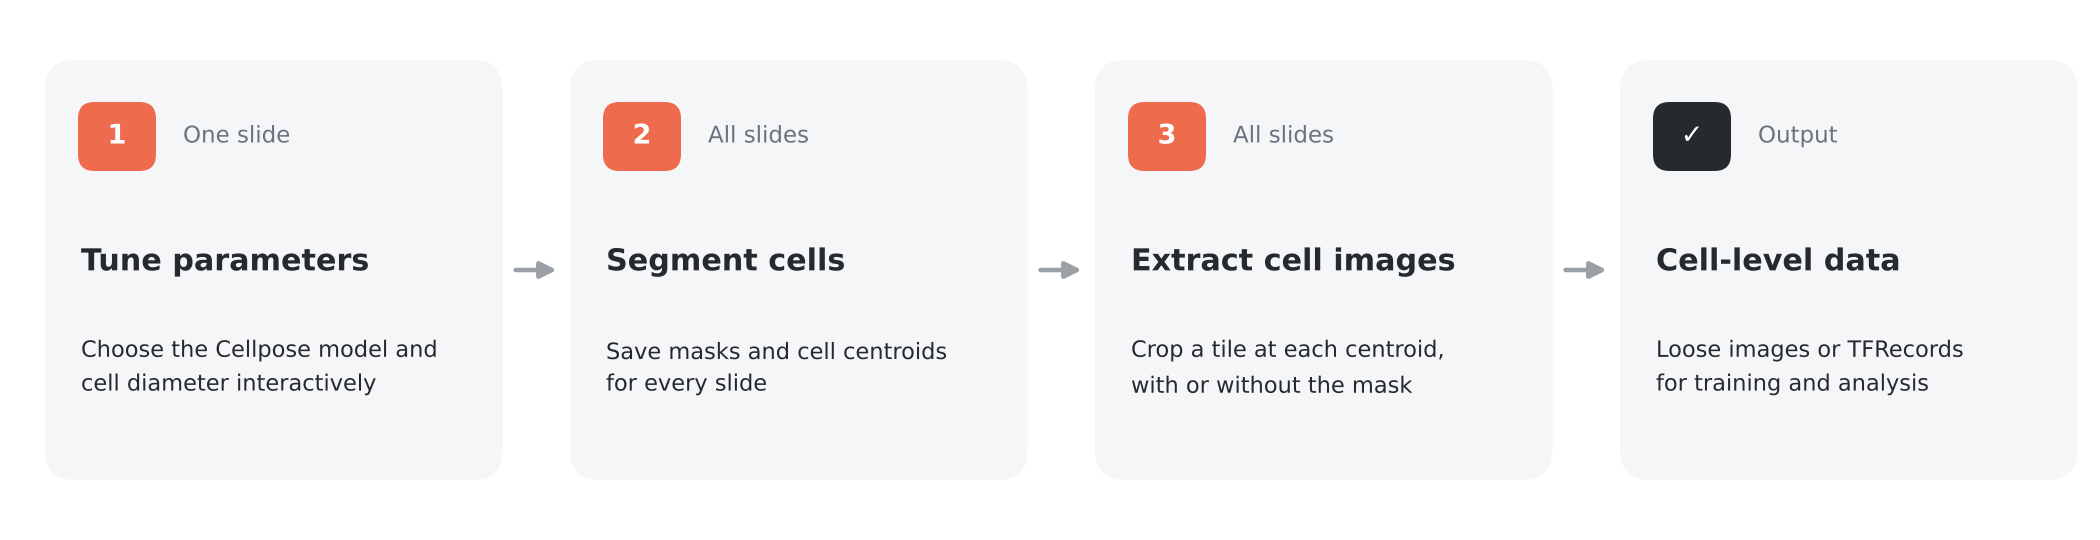
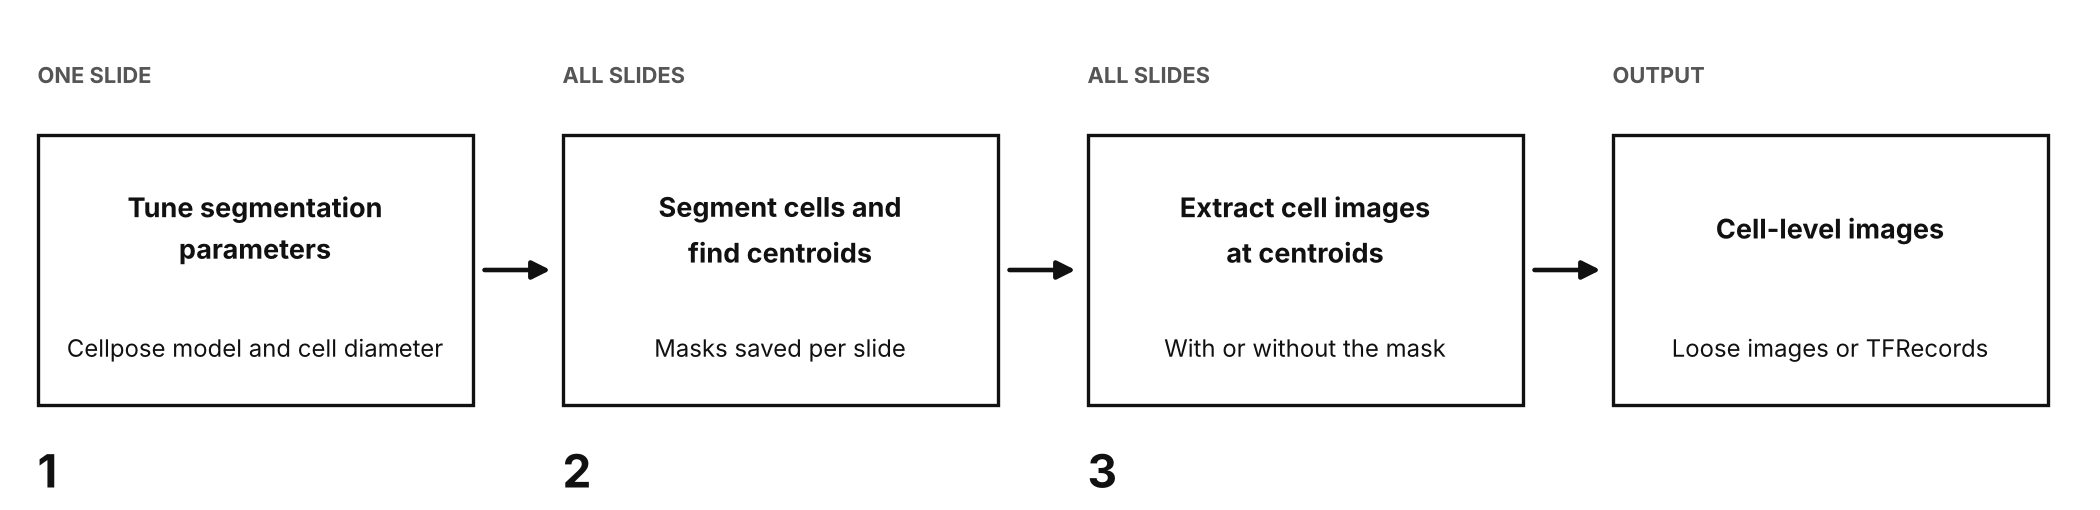
docs: restyle diagrams as plain line art
Redraw the overview, validation and cell-segmentation diagrams with a white
background, black strokes and arrows, and large phase numbers, and use real
HistoX outputs (attention heatmap, mosaic map, UMAP) in the overview.

diff --git a/docs/figures/make_overview.py b/docs/figures/make_overview.py
@@ -1,8 +1,8 @@
 """Draw the HistoX workflow overview figure (docs/source/overview.png).
 
-All images are HistoX outputs generated from the open-access TCGA slides
-documented in docs/source/_static/slide_processing/generation_metadata.json
-and docs/source/methods/multimodal/ps3.rst.
+Line-art schematic in three phases. All embedded images are HistoX outputs
+generated from open-access TCGA slides (see the generation metadata next to
+each source image in docs/source).
 
 Run from the repository root:  python docs/figures/make_overview.py
 """
@@ -12,103 +12,139 @@ import numpy as np
 import matplotlib
 matplotlib.use('Agg')
 import matplotlib.pyplot as plt
-from matplotlib.patches import FancyBboxPatch, FancyArrowPatch, Rectangle
+from matplotlib import font_manager
+from matplotlib.patches import FancyArrowPatch, Rectangle, Circle, FancyBboxPatch
 from PIL import Image
 
 ROOT = Path(sys.argv[1]) if len(sys.argv) > 1 else Path('.')
 SRC = ROOT / 'docs/source'
 OUT = SRC / 'overview.png'
 
-INK, MUTED, ORANGE, PANEL, LINE = '#262a2e', '#6b7280', '#ee6c4d', '#f5f6f8', '#d6d9de'
-plt.rcParams.update({'font.family': 'DejaVu Sans', 'font.size': 11})
+FONT = 'Inter' if any('Inter' in f.name for f in font_manager.fontManager.ttflist) else 'DejaVu Sans'
+plt.rcParams.update({'font.family': FONT})
+INK, GREY = '#111111', '#9a9a9a'
 
-thumb = Image.open(SRC / '_static/slide_processing/tutorial_roi_tiles.png').convert('RGB')
+roi = Image.open(SRC / '_static/slide_processing/tutorial_roi_tiles.png').convert('RGB').crop((20, 150, 600, 610))
 plain = np.asarray(Image.open(SRC / '_static/slide_processing/tutorial_thumbnail.png').convert('RGB'))
-att = Image.open(SRC / '_static/examples/ps3_spatial_attention_tcga_a6_5660.png').convert('RGB')
-att = att.crop((55, 40, 385, 525))
+att = Image.open(SRC / '_static/examples/ps3_spatial_attention_tcga_a6_5660.png').convert('RGB').crop((55, 40, 385, 525))
+mosaic = Image.open(SRC / 'mosaic_example.png').convert('RGB')
+mosaic = mosaic.crop((60, 640, 1176, 1150))
+umap = Image.open(SRC / 'umap_example.png').convert('RGB').crop((105, 40, 800, 880))   # points only, no legend
 
-fig = plt.figure(figsize=(16, 6.4), dpi=150)
-ax = fig.add_axes([0, 0, 1, 1]); ax.set_xlim(0, 160); ax.set_ylim(0, 64); ax.axis('off')
+fig = plt.figure(figsize=(16, 7.2), dpi=150)
+ax = fig.add_axes([0, 0, 1, 1]); ax.set_xlim(0, 160); ax.set_ylim(0, 72); ax.axis('off')
 
-def panel(x, w, num, title):
-    ax.add_patch(FancyBboxPatch((x, 3), w, 56, boxstyle='round,pad=0,rounding_size=2.2', fc=PANEL, ec='none'))
-    ax.add_patch(FancyBboxPatch((x + 2.5, 52.2), 6.2, 4.6, boxstyle='round,pad=0,rounding_size=1.2', fc=ORANGE, ec='none'))
-    ax.text(x + 5.6, 54.5, str(num), ha='center', va='center', color='white', fontsize=15, weight='bold')
-    ax.text(x + 10.5, 54.5, title, ha='left', va='center', color=INK, fontsize=16, weight='bold')
 
-def image(img, x, y, w, h, border=True):
-    ax.imshow(img, extent=(x, x + w, y, y + h), aspect='auto', zorder=3)
-    if border:
-        ax.add_patch(Rectangle((x, y), w, h, fill=False, ec=LINE, lw=1, zorder=4))
+def img(im, x, y, w, h, frame=True, lw=1.2):
+    ax.imshow(im, extent=(x, x + w, y, y + h), aspect='auto', zorder=2)
+    if frame:
+        ax.add_patch(Rectangle((x, y), w, h, fill=False, ec=INK, lw=lw, zorder=3))
 
-def arrow(x0, y0, x1, y1, color=INK, lw=1.8):
-    ax.add_patch(FancyArrowPatch((x0, y0), (x1, y1), arrowstyle='-|>', mutation_scale=16, color=color, lw=lw, zorder=5))
 
-def label(x, y, text, **kw):
-    kw.setdefault('color', INK); kw.setdefault('fontsize', 11.5)
-    ax.text(x, y, text, **kw)
+def arrow(x0, y0, x1, y1, color=INK, lw=2.2, ms=18):
+    ax.add_patch(FancyArrowPatch((x0, y0), (x1, y1), arrowstyle='-|>', mutation_scale=ms,
+                                 color=color, lw=lw, zorder=4, shrinkA=0, shrinkB=0))
 
-def tile_crops(n, size=46, seed=0):
-    """Square crops from tissue-rich regions of the TCGA thumbnail."""
-    rng = np.random.default_rng(seed); out = []
-    h, w, _ = plain.shape
-    while len(out) < n:
-        y, x = rng.integers(0, h - size), rng.integers(0, w - size)
-        c = plain[y:y + size, x:x + size]
+
+def text(x, y, s, size=13, weight='normal', **kw):
+    ax.text(x, y, s, fontsize=size, weight=weight, color=INK, **kw)
+
+
+def bag(cx, cy, w=7.0, h=7.6, rows=6):
+    """Feature-bag icon: a matrix whose rows are tile embeddings."""
+    x0, y0 = cx - w / 2, cy - h / 2
+    rng = np.random.default_rng(int(cx * 10 + cy))
+    rh = h / rows
+    for r in range(rows):
+        for c in range(5):
+            shade = 0.25 + 0.65 * rng.random()
+            ax.add_patch(Rectangle((x0 + c * w / 5, y0 + r * rh), w / 5, rh,
+                                   fc=str(shade), ec='white', lw=0.8, zorder=2))
+    ax.add_patch(Rectangle((x0, y0), w, h, fill=False, ec=INK, lw=1.4, zorder=3))
+
+
+def model(cx, cy, r=6.2):
+    """Model icon: a small fully connected network inside a circle."""
+    ax.add_patch(Circle((cx, cy), r, fill=False, ec=INK, lw=2.2, zorder=3))
+    layers = [[-2.2, 0, 2.2], [-3.0, -1.0, 1.0, 3.0], [-1.1, 1.1]]
+    xs = [cx - 3.6, cx, cx + 3.6]
+    pts = [[(x, cy + dy) for dy in ys] for x, ys in zip(xs, layers)]
+    for a, b in zip(pts[:-1], pts[1:]):
+        for p in a:
+            for q in b:
+                ax.plot([p[0], q[0]], [p[1], q[1]], color=INK, lw=0.6, zorder=3)
+    for layer in pts:
+        for (x, y) in layer:
+            ax.add_patch(Circle((x, y), 0.65, fc='white', ec=INK, lw=1.3, zorder=4))
+
+
+def roc(x, y, s=10):
+    ax.add_patch(Rectangle((x, y), s, s, fc='white', ec=INK, lw=1.4, zorder=2))
+    f = np.linspace(0, 1, 60)
+    ax.fill_between(x + s * f, y + s * f, y + s * (1 - (1 - f) ** 3.5), color='#e6e6e6', zorder=2)
+    ax.plot(x + s * f, y + s * (1 - (1 - f) ** 3.5), color=INK, lw=1.8, zorder=3)
+    ax.plot([x, x + s], [y, y + s], color=GREY, lw=1, ls=(0, (2, 2)), zorder=3)
+    text(x + s - 0.6, y + 0.8, 'ROC', size=10, ha='right')
+
+
+def tiles(x, y, cols, rows, size=4.2, gap=0.7, seed=3):
+    rng = np.random.default_rng(seed); h, w, _ = plain.shape; k = 48; n = 0
+    while n < cols * rows:
+        yy, xx = rng.integers(0, h - k), rng.integers(0, w - k)
+        c = plain[yy:yy + k, xx:xx + k]
         if (c.mean(axis=2) < 200).mean() > 0.85:
-            out.append(c)
-    return out
+            r, q = divmod(n, cols)
+            img(c, x + q * (size + gap), y + (rows - 1 - r) * (size + gap), size, size, lw=0.8)
+            n += 1
 
-# ---------------------------------------------------------------- phase 1
-panel(3, 50, 1, 'Prepare data')
-image(thumb.crop((20, 150, 560, 600)), 7, 22, 24, 20)
-label(19, 18.5, 'Whole-slide image\n+ ROI and tile grid', ha='center', va='top', fontsize=10.5, color=MUTED)
-arrow(32.5, 32, 36.5, 32)
-for i, c in enumerate(tile_crops(12, seed=3)):
-    r, k = divmod(i, 3)
-    image(c, 37.5 + k * 4.9, 39.5 - r * 4.9, 4.4, 4.4, border=False)
-label(44.8, 18.5, 'Quality-controlled,\nnormalized tiles', ha='center', va='top', fontsize=10.5, color=MUTED)
-label(7, 11.5, '+ tissue and blur QC      + stain normalization', fontsize=10.5, color=INK)
-label(7, 7.2, 'Output: tiles or feature bags per slide', fontsize=10.5, color=MUTED)
 
-arrow(53.8, 31, 57.2, 31, color='#9aa0a6', lw=2.4)
+# ---------------------------------------------------------------- 1. data
+D = 6   # horizontal offset of phase 1
+img(roi, 7 + D, 50, 24, 19, lw=1.6)
+arrow(19 + D, 48.5, 19 + D, 39.5)
+text(17.5 + D, 44, 'Tile extraction', size=15, ha='right', va='center')
+text(21 + D, 44, '+ Tissue detection\n+ Blur QC\n+ Stain normalization', size=11.5, va='center', linespacing=1.45)
+tiles(7.2 + D, 22.5, 5, 3)
+arrow(19 + D, 20.5, 19 + D, 13.5)
+text(17.5 + D, 17, 'Feature extraction', size=15, ha='right', va='center')
+bag(19 + D, 8.3)
+text(19 + D, 2.6, 'Feature bags', size=12.5, weight='bold', ha='center')
 
-# ---------------------------------------------------------------- phase 2
-panel(58, 46, 2, 'Train and validate')
-for i, c in enumerate(tile_crops(3, seed=11)):
-    image(c, 62 + i * 1.2, 36 - i * 1.2, 7, 7)
-label(65.5, 30, 'Training folds', ha='center', va='top', fontsize=10.5, color=MUTED)
-arrow(71.5, 36, 76, 36)
-ax.add_patch(FancyBboxPatch((76.5, 31), 12, 10, boxstyle='round,pad=0,rounding_size=1.6', fc='white', ec=ORANGE, lw=2))
-for yy in (38.5, 33.5):
-    for xx in (79, 86):
-        ax.add_patch(FancyBboxPatch((xx - 1, yy - 0.8), 2, 1.6, boxstyle='round,pad=0,rounding_size=0.5', fc=INK, ec='none'))
-ax.plot([80, 82.5, 82.5, 85], [38.5, 38.5, 33.5, 33.5], color=INK, lw=1.4)
-label(82.5, 29.6, 'Model', ha='center', va='top', fontsize=11.5, weight='bold')
-label(91, 39.5, 'classification\nregression\nsurvival', fontsize=10, color=MUTED, va='top')
-arrow(82.5, 26.5, 82.5, 21.5)
-label(84.5, 24, 'k-fold validation', fontsize=10.5, color=INK, va='center')
-ax.add_patch(Rectangle((77, 8), 11, 11, fc='white', ec=LINE, lw=1))
-fpr = np.linspace(0, 1, 50); tpr = 1 - (1 - fpr) ** 3.2
-ax.plot(77 + 11 * fpr, 8 + 11 * tpr, color=ORANGE, lw=2)
-ax.plot([77, 88], [8, 19], color=LINE, lw=1, ls='--')
-label(90, 13.5, 'Metrics\nAUROC, AP,\nC-index', fontsize=10.5, va='center', color=MUTED)
+# ---------------------------------------------------------------- 2. model
+for x in (66, 76, 86):
+    bag(x, 64)
+arrow(76, 58.5, 76, 49)
+text(74.5, 53.7, 'Training', size=15, ha='right', va='center')
+text(78, 53.7, 'Classification,\nregression,\nor survival', size=11.5, va='center', linespacing=1.4)
+model(76, 40.5)
+text(76, 31.4, 'Model', size=12.5, weight='bold', ha='center')
+for x in (90, 99):
+    bag(x, 40.5)
+ax.plot([76, 76, 94.5, 94.5], [29, 26, 26, 35.5], color=INK, lw=2.2, zorder=3, solid_joinstyle='miter')
+arrow(85.25, 26, 85.25, 18.5)
+text(83.75, 22.3, 'Validation', size=15, ha='right', va='center')
+roc(80.25, 6.5)
+text(85.25, 2.6, 'Metrics', size=12.5, weight='bold', ha='center')
 
-arrow(104.8, 31, 108.2, 31, color='#9aa0a6', lw=2.4)
+# ---------------------------------------------------------------- 3. evidence
+model(121, 61.5, r=5.6)
+text(121, 52.7, 'Model', size=12.5, weight='bold', ha='center')
+for x in (134, 143):
+    bag(x, 61.5)
+ax.plot([121, 121, 138.5, 138.5], [50.6, 48, 48, 57.2], color=INK, lw=2.2, zorder=3, solid_joinstyle='miter')
+arrow(129.75, 48, 129.75, 42.5)
+img(att, 113, 26.5, 10.5, 15)
+text(125.5, 34, 'Attention and\nprediction heatmaps', size=12.5, va='center', linespacing=1.35)
+img(mosaic, 113, 13.5, 18, 8.3)
+text(133.5, 17.6, 'Mosaic maps', size=12.5, va='center')
+img(umap, 113, 1.2, 9, 10)
+text(124.5, 6.2, 'Feature-space\nanalysis', size=12.5, va='center', linespacing=1.35)
 
-# ---------------------------------------------------------------- phase 3
-panel(109, 48, 3, 'Explain')
-image(att, 113, 26, 15, 22)
-label(120.5, 24.3, 'Attention or\nprediction heatmaps', ha='center', va='top', fontsize=10.5, color=MUTED)
-for i, c in enumerate(tile_crops(16, size=40, seed=21)):
-    r, k = divmod(i, 4)
-    image(c, 133 + k * 3.9, 44.5 - r * 3.9, 3.6, 3.6, border=False)
-label(140.5, 24.3, 'Mosaic map of\nlearned features', ha='center', va='top', fontsize=10.5, color=MUTED)
-rng = np.random.default_rng(7)
-for cx, cy, col in [(117, 11, ORANGE), (123, 13.5, '#7f2d73'), (120, 7.5, '#4c78a8')]:
-    pts = rng.normal(0, 1.1, (25, 2))
-    ax.scatter(cx + pts[:, 0], cy + pts[:, 1], s=9, color=col, zorder=4, lw=0)
-label(129, 11, 'Feature-space analysis\nand uncertainty', fontsize=10.5, va='center', color=MUTED)
+# ---------------------------------------------------------------- phases
+for x, n in ((1.5, '1'), (58, '2'), (109, '3')):
+    text(x, 1.4, n, size=30, weight='bold', va='bottom')
+arrow(50, 40.5, 56, 40.5, color=GREY, lw=3.2, ms=22)
+arrow(104.5, 40.5, 110, 40.5, color=GREY, lw=3.2, ms=22)
 
 fig.savefig(OUT, dpi=150, facecolor='white')
 print('wrote', OUT)

diff --git a/docs/figures/make_cellseg_diagram.py b/docs/figures/make_cellseg_diagram.py
@@ -1,41 +1,39 @@
 """Draw the cell-segmentation workflow diagram (docs/source/cell_segmentation.png).
 
-Schematic only. Run from the repository root:
-    python docs/figures/make_cellseg_diagram.py
+Line-art schematic matching docs/figures/make_overview.py.
+Run from the repository root:  python docs/figures/make_cellseg_diagram.py
 """
 from pathlib import Path
 import sys
 import matplotlib
 matplotlib.use('Agg')
 import matplotlib.pyplot as plt
-from matplotlib.patches import FancyBboxPatch, FancyArrowPatch
+from matplotlib import font_manager
+from matplotlib.patches import FancyArrowPatch, Rectangle
 
 ROOT = Path(sys.argv[1]) if len(sys.argv) > 1 else Path('.')
 OUT = ROOT / 'docs/source/cell_segmentation.png'
-INK, MUTED, ORANGE, PANEL = '#262a2e', '#6b7280', '#ee6c4d', '#f5f6f8'
-plt.rcParams.update({'font.family': 'DejaVu Sans'})
+FONT = 'Inter' if any('Inter' in f.name for f in font_manager.fontManager.ttflist) else 'DejaVu Sans'
+plt.rcParams.update({'font.family': FONT})
+INK = '#111111'
 
-fig = plt.figure(figsize=(14, 3.6), dpi=150)
-ax = fig.add_axes([0, 0, 1, 1]); ax.set_xlim(0, 140); ax.set_ylim(0, 36); ax.axis('off')
+fig = plt.figure(figsize=(14, 3.4), dpi=150)
+ax = fig.add_axes([0, 0, 1, 1]); ax.set_xlim(0, 140); ax.set_ylim(0, 34); ax.axis('off')
 
-steps = [
-    ('One slide', 'Tune parameters', 'Choose the Cellpose model and\ncell diameter interactively'),
-    ('All slides', 'Segment cells', 'Save masks and cell centroids\nfor every slide'),
-    ('All slides', 'Extract cell images', 'Crop a tile at each centroid,\nwith or without the mask'),
-    ('Output', 'Cell-level data', 'Loose images or TFRecords\nfor training and analysis'),
-]
-w, gap, x = 30.5, 4.5, 3
-for i, (scope, title, body) in enumerate(steps):
-    ax.add_patch(FancyBboxPatch((x, 4), w, 28, boxstyle='round,pad=0,rounding_size=2', fc=PANEL, ec='none'))
-    ax.add_patch(FancyBboxPatch((x + 2.2, 24.6), 5.2, 4.6, boxstyle='round,pad=0,rounding_size=1.1',
-                                fc=ORANGE if i < 3 else INK, ec='none'))
-    ax.text(x + 4.8, 26.9, str(i + 1) if i < 3 else '✓', ha='center', va='center', color='white', fontsize=13, weight='bold')
-    ax.text(x + 9.2, 26.9, scope, ha='left', va='center', color=MUTED, fontsize=11)
-    ax.text(x + 2.4, 18.5, title, ha='left', va='center', color=INK, fontsize=14.5, weight='bold')
-    ax.text(x + 2.4, 11.5, body, ha='left', va='center', color=INK, fontsize=10.8, linespacing=1.5)
-    if i < len(steps) - 1:
-        ax.add_patch(FancyArrowPatch((x + w + 0.6, 18), (x + w + gap - 0.6, 18), arrowstyle='-|>',
-                                     mutation_scale=16, color='#9aa0a6', lw=2.2))
+rows = [('One slide', 'Tune segmentation\nparameters', 'Cellpose model and cell diameter'),
+        ('All slides', 'Segment cells and\nfind centroids', 'Masks saved per slide'),
+        ('All slides', 'Extract cell images\nat centroids', 'With or without the mask'),
+        ('Output', 'Cell-level images', 'Loose images or TFRecords')]
+w, gap, x = 29, 6, 2.5
+for i, (scope, title, body) in enumerate(rows):
+    ax.text(x, 29, scope.upper(), fontsize=10.5, color='#555555', weight='bold', va='center')
+    ax.add_patch(Rectangle((x, 7), w, 18, fill=False, ec=INK, lw=1.6))
+    ax.text(x + w / 2, 18.6, title, fontsize=13, weight='bold', color=INK, ha='center', va='center', linespacing=1.3)
+    ax.text(x + w / 2, 10.8, body, fontsize=11.5, color=INK, ha='center', va='center')
+    ax.text(x, 1.5, str(i + 1) if i < 3 else '', fontsize=22, weight='bold', color=INK)
+    if i < len(rows) - 1:
+        ax.add_patch(FancyArrowPatch((x + w + 0.8, 16), (x + w + gap - 0.8, 16), arrowstyle='-|>',
+                                     mutation_scale=18, color=INK, lw=2.2, shrinkA=0, shrinkB=0))
     x += w + gap
 fig.savefig(OUT, dpi=150, facecolor='white')
 print('wrote', OUT)

diff --git a/docs/figures/make_validation.py b/docs/figures/make_validation.py
@@ -11,14 +11,15 @@ import numpy as np
 import matplotlib
 matplotlib.use('Agg')
 import matplotlib.pyplot as plt
-from matplotlib.patches import FancyBboxPatch
+from matplotlib import font_manager
+from matplotlib.patches import Rectangle
 
 ROOT = Path(sys.argv[1]) if len(sys.argv) > 1 else Path('.')
 OUT = ROOT / 'docs/source/validation.png'
-INK, MUTED, ORANGE, TRAIN = '#262a2e', '#6b7280', '#ee6c4d', '#cfd4db'
-SITES = ['#4c78a8', '#7f2d73', '#59a14f']
+INK, MUTED = '#111111', '#555555'
 N = 12
-plt.rcParams.update({'font.family': 'DejaVu Sans'})
+FONT = 'Inter' if any('Inter' in f.name for f in font_manager.fontManager.ttflist) else 'DejaVu Sans'
+plt.rcParams.update({'font.family': FONT})
 
 rng = np.random.default_rng(4)
 perm = rng.permutation(N)
@@ -41,23 +42,19 @@ for ax, (title, sub, rows, show_sites, more) in zip(axes, panels):
     ax.text(-2.2, 1.55, title, fontsize=13, weight='bold', color=INK, va='center')
     ax.text(-2.2, 0.75, sub, fontsize=10, color=MUTED, va='center')
     if show_sites:
-        for p in range(N):
-            ax.add_patch(FancyBboxPatch((p + 0.08, -0.35), 0.84, 0.22, boxstyle='round,pad=0,rounding_size=0.08',
-                                        fc=SITES[site_of[p]], ec='none'))
         for s, lab in enumerate('ABC'):
-            ax.text(s * 4 + 2, -0.05, f'site {lab}', fontsize=8.5, color=SITES[s], ha='center', va='bottom')
+            ax.plot([s * 4 + 0.15, s * 4 + 0.15, s * 4 + 3.85, s * 4 + 3.85], [-0.15, -0.3, -0.3, -0.15], color=INK, lw=1.2)
+            ax.text(s * 4 + 2, -0.05, f'site {lab}', fontsize=9.5, color=INK, ha='center', va='bottom')
     for r, val in enumerate(rows):
         y = -1.35 - r * 1.25
         ax.text(-0.5, y + 0.45, str(r + 1) if len(rows) > 1 else '', fontsize=9.5, color=MUTED, ha='right', va='center')
         for p in range(N):
-            ax.add_patch(FancyBboxPatch((p + 0.08, y), 0.84, 0.9, boxstyle='round,pad=0,rounding_size=0.12',
-                                        fc=ORANGE if p in val else TRAIN, ec='none'))
+            ax.add_patch(Rectangle((p + 0.12, y), 0.76, 0.9, fc=INK if p in val else 'white', ec=INK, lw=1.1))
     if more:
         ax.text(N / 2, -1.35 - len(rows) * 1.25 + 0.35, '...', fontsize=14, color=MUTED, ha='center')
 
-fig.text(0.012, 0.04, '■', color=TRAIN, fontsize=14); fig.text(0.026, 0.045, 'training', fontsize=10, color=INK)
-fig.text(0.085, 0.04, '■', color=ORANGE, fontsize=14); fig.text(0.099, 0.045, 'validation', fontsize=10, color=INK)
-fig.text(0.17, 0.045, 'Each row is one training iteration; each square is one patient.', fontsize=10, color=MUTED)
+fig.text(0.012, 0.045, '□ training    ■ validation', fontsize=11, color=INK)
+fig.text(0.16, 0.045, 'Each row is one training iteration; each square is one patient.', fontsize=10.5, color=MUTED)
 fig.subplots_adjust(left=0.01, right=0.99, top=0.97, bottom=0.12, wspace=0.12)
 fig.savefig(OUT, dpi=150, facecolor='white')
 print('wrote', OUT)
